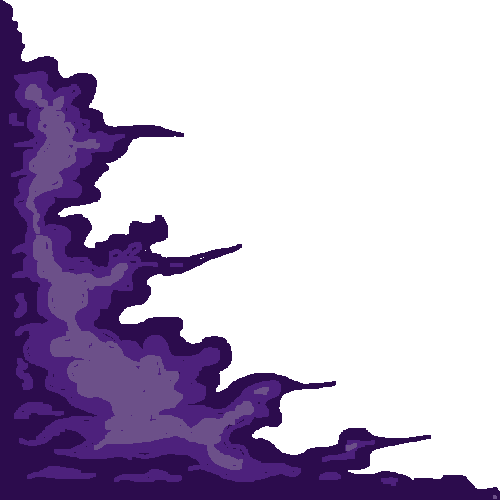
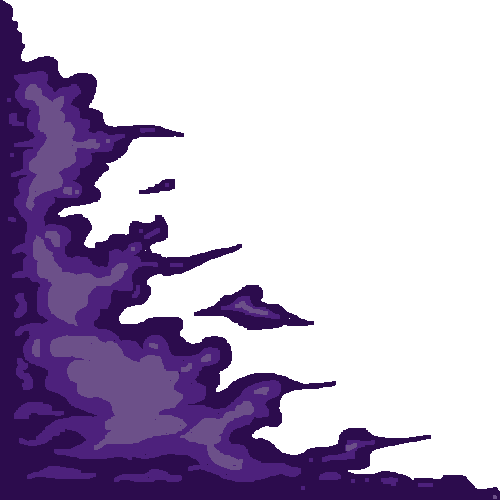
Modif ghost ligne 266, Monde sans limites

diff --git a/game/Kusinta/game/underworld/Ghost.java b/game/Kusinta/game/underworld/Ghost.java
@@ -223,20 +223,23 @@ public class Ghost extends Entity {
 		if (cat == Category.O) {
 			isFollowing = false;
 			if (dir == Direction.F) {
-				if (m_direction == Direction.N) {
+				switch (m_direction.toString()) {
+				case Direction.Ns:
 //					block = getBlockCoord(m_coord.X(), m_coord.Y() - SIZE);
 					return m_model.m_underworld.isBlocked(m_coord.X(), m_coord.Y());
-				} else if (m_direction == Direction.S) {
+				case Direction.Ss:
 //					block = getBlockCoord(m_coord.X(), m_coord.Y() + SIZE);
 					return m_model.m_underworld.isBlocked(m_coord.X(), m_coord.Y() + m_size);
-				} else if (m_direction == Direction.W) {
+				case Direction.Ws:
 //					block = getBlockCoord(m_coord.X() - SIZE, m_coord.Y());
 					return m_model.m_underworld.isBlocked(m_coord.X(), m_coord.Y());
-				} else if (m_direction == Direction.E) {
+				case Direction.Es:
 //					block = getBlockCoord(m_coord.X() + SIZE, m_coord.Y());
 					return m_model.m_underworld.isBlocked(m_coord.X() + m_size, m_coord.Y());
+				default:
+					return false;
 				}
-				return false;
+
 			}
 		} else if (cat == Category.A) {
 			coord = getPlayer().getCoord();
@@ -260,47 +263,47 @@ public class Ghost extends Entity {
 				return false;
 		}
 		// Modifier egalités de coord pour garder une distance
-		switch (dir.toString()) {
-		case Direction.Ns:
-			block = getBlockCoord(m_coord.X(), m_coord.Y() - m_size);
-			playerBlock = getBlockCoord(coord.X(), coord.Y());
-			return block.isEqual(playerBlock) && Math.abs(coord.Y() - m_coord.Y()) <= 50;
-		case Direction.Ss:
-			block = getBlockCoord(m_coord.X(), m_coord.Y() + m_size);
-			playerBlock = getBlockCoord(coord.X(), coord.Y());
-			return block.isEqual(playerBlock) && Math.abs(coord.Y() - m_coord.Y()) <= 50;
-		case Direction.Es:
-			block = getBlockCoord(m_coord.X() + m_size, m_coord.Y());
-			playerBlock = getBlockCoord(coord.X(), coord.Y());
-			return block.isEqual(playerBlock) && Math.abs(coord.X() - m_coord.X()) <= 50;
-		case Direction.Ws:
-			block = getBlockCoord(m_coord.X() - m_size, m_coord.Y());
-			playerBlock = getBlockCoord(coord.X(), coord.Y());
-			return block.isEqual(playerBlock) && Math.abs(coord.X() - m_coord.X()) <= 50;
-		case Direction.NEs:
-			block = getBlockCoord(m_coord.X() + m_size, m_coord.Y() - m_size);
-			playerBlock = getBlockCoord(coord.X(), coord.Y());
-			return block.isEqual(playerBlock) && Math.abs(coord.X() - m_coord.X()) <= 50
-					&& Math.abs(coord.Y() - m_coord.Y()) <= 50;
-		case Direction.NWs:
-			block = getBlockCoord(m_coord.X() - m_size, m_coord.Y() - m_size);
-			playerBlock = getBlockCoord(coord.X(), coord.Y());
-			return block.isEqual(playerBlock) && Math.abs(coord.X() - m_coord.X()) <= 50
-					&& Math.abs(coord.Y() - m_coord.Y()) <= 50;
-		case Direction.SEs:
-			block = getBlockCoord(m_coord.X() + m_size, m_coord.Y() + m_size);
-			playerBlock = getBlockCoord(coord.X(), coord.Y());
-			return block.isEqual(playerBlock) && Math.abs(coord.X() - m_coord.X()) <= 50
-					&& Math.abs(coord.Y() - m_coord.Y()) <= 50;
-		case Direction.SWs:
-			block = getBlockCoord(m_coord.X() - m_size, m_coord.Y() + m_size);
-			playerBlock = getBlockCoord(coord.X(), coord.Y());
-			return block.isEqual(playerBlock) && Math.abs(coord.X() - m_coord.X()) <= 50
-					&& Math.abs(coord.Y() - m_coord.Y()) <= 50;
-		case Direction.Hs:
-			return Math.abs(m_coord.X() - coord.X()) <= 5 && Math.abs(m_coord.Y() - coord.Y()) <= 5;
-		// return coord.isEqual(m_coord);
-		}
+//		switch (dir.toString()) {
+//		case Direction.Ns:
+//			block = getBlockCoord(m_coord.X(), m_coord.Y() - m_size);
+//			playerBlock = getBlockCoord(coord.X(), coord.Y());
+//			return block.isEqual(playerBlock) && Math.abs(coord.Y() - m_coord.Y()) <= 50;
+//		case Direction.Ss:
+//			block = getBlockCoord(m_coord.X(), m_coord.Y() + m_size);
+//			playerBlock = getBlockCoord(coord.X(), coord.Y());
+//			return block.isEqual(playerBlock) && Math.abs(coord.Y() - m_coord.Y()) <= 50;
+//		case Direction.Es:
+//			block = getBlockCoord(m_coord.X() + m_size, m_coord.Y());
+//			playerBlock = getBlockCoord(coord.X(), coord.Y());
+//			return block.isEqual(playerBlock) && Math.abs(coord.X() - m_coord.X()) <= 50;
+//		case Direction.Ws:
+//			block = getBlockCoord(m_coord.X() - m_size, m_coord.Y());
+//			playerBlock = getBlockCoord(coord.X(), coord.Y());
+//			return block.isEqual(playerBlock) && Math.abs(coord.X() - m_coord.X()) <= 50;
+//		case Direction.NEs:
+//			block = getBlockCoord(m_coord.X() + m_size, m_coord.Y() - m_size);
+//			playerBlock = getBlockCoord(coord.X(), coord.Y());
+//			return block.isEqual(playerBlock) && Math.abs(coord.X() - m_coord.X()) <= 50
+//					&& Math.abs(coord.Y() - m_coord.Y()) <= 50;
+//		case Direction.NWs:
+//			block = getBlockCoord(m_coord.X() - m_size, m_coord.Y() - m_size);
+//			playerBlock = getBlockCoord(coord.X(), coord.Y());
+//			return block.isEqual(playerBlock) && Math.abs(coord.X() - m_coord.X()) <= 50
+//					&& Math.abs(coord.Y() - m_coord.Y()) <= 50;
+//		case Direction.SEs:
+//			block = getBlockCoord(m_coord.X() + m_size, m_coord.Y() + m_size);
+//			playerBlock = getBlockCoord(coord.X(), coord.Y());
+//			return block.isEqual(playerBlock) && Math.abs(coord.X() - m_coord.X()) <= 50
+//					&& Math.abs(coord.Y() - m_coord.Y()) <= 50;
+//		case Direction.SWs:
+//			block = getBlockCoord(m_coord.X() - m_size, m_coord.Y() + m_size);
+//			playerBlock = getBlockCoord(coord.X(), coord.Y());
+//			return block.isEqual(playerBlock) && Math.abs(coord.X() - m_coord.X()) <= 50
+//					&& Math.abs(coord.Y() - m_coord.Y()) <= 50;
+//		case Direction.Hs:
+//			return Math.abs(m_coord.X() - coord.X()) <= 5 && Math.abs(m_coord.Y() - coord.Y()) <= 5;
+//		// return coord.isEqual(m_coord);
+//		}
 		return false;
 	}
 

diff --git a/game/Kusinta/game/underworld/PlayerSoul.java b/game/Kusinta/game/underworld/PlayerSoul.java
@@ -29,6 +29,7 @@ public class PlayerSoul extends Character {
 	long m_dashTimer;
 	long m_lureTimer;
 
+	int nbLure = 0;
 	int fragmentsPicked = 0;
 	boolean leftOrientation;
 
@@ -43,7 +44,7 @@ public class PlayerSoul extends Character {
 	int animationMode;
 	int m_lifePaint, m_dashPaint, m_lurePaint;
 
-	boolean hidden, escape, escapedOrDead;
+	boolean hidden, escape, escapedOrDead, invicible, outScreen;
 	boolean dashAvailable, lureAvailable, moveAvailable;
 	Lure lure;
 
@@ -52,10 +53,12 @@ public class PlayerSoul extends Character {
 		m_width = SIZE;
 		m_height = SIZE;
 		m_dashTimer = 0;
+		outScreen = false;
 		leftOrientation = false;
 		dashAvailable = true;
 		lureAvailable = true;
 		moveAvailable = true;
+		invicible = true;
 		hidden = false;
 		escape = false;
 		escapedOrDead = false;
@@ -69,16 +72,21 @@ public class PlayerSoul extends Character {
 	}
 	
 	public boolean lureActive(){
-		return m_projectiles.size() > 0;
+		return nbLure > 0;
 	}
 
 	@Override
 	public boolean closest(Category cat, Direction dir) {
-		int xCenter = m_coord.X() + (m_width / 2);
-		int yCenter = m_coord.Y() + (m_height / 2);
 		if ((escape) && (cat == Category.G)) {
 			return m_model.m_underworld.m_gate.contains(hitBox);
 		}
+		if (cat == Category.C) {
+			int x = m_coord.X();
+			int y = m_coord.Y();
+			return ((x + m_width < 0) || (y + m_height < 0) || (x > Underworld.BORDERX) || (y > Underworld.BORDERY));
+		}
+		int xCenter = m_coord.X() + (m_width / 2);
+		int yCenter = m_coord.Y() + (m_height / 2);
 		if (cat == Category.O) {
 			for (int i = 0; i < m_model.m_underworld.m_clouds.length; i++) {
 				if ((m_model.m_underworld.m_clouds[i].contains(xCenter, yCenter))) {
@@ -212,12 +220,28 @@ public class PlayerSoul extends Character {
 	}
 
 	@Override
-	public boolean wizz(Direction dir) {
+	public boolean hit(Direction dir) {
 		fragmentsPicked = -1;
 		escape = true;
 		m_model.m_underworld.activateGate();
 		animationMode = ESCAPE;
 		m_image_index = UnderworldParam.sizePlayerDashAnimation;
+		return true;
+	}
+	
+	@Override
+	public boolean wizz(Direction dir) {
+		int x = m_coord.X();
+		int y = m_coord.Y();
+		if (x < 0) {
+			m_coord.setX(Underworld.BORDERX);
+		} else if (y < 0) {
+			m_coord.setY(Underworld.BORDERY);
+		} else if (x > Underworld.BORDERX) {
+			m_coord.setX(0 - m_width);
+		} else {
+			m_coord.setY(0 - m_height);
+		}
 		return true;
 	}
 
@@ -257,13 +281,14 @@ public class PlayerSoul extends Character {
 
 	@Override
 	public boolean egg(Direction dir) {
- 	  if ((lureAvailable) && (m_projectiles.size() < MAX_LURE)) {
+ 	  if ((lureAvailable) && (nbLure < MAX_LURE)) {
 			try {
 				int x = m_model.m_mouseCoord.X() - Lure.SIZE / 2;
 				int y = m_model.m_mouseCoord.Y() - Lure.SIZE / 2;
 				if (m_model.m_underworld.checkPosition(x, y, 0, Lure.SIZE))
 					return false;
 				addProjectile(Projectile.proj.LURE, new Coord(x, y), 0, this, m_direction);
+				nbLure++;
 				lureAvailable = false;
 				m_lureGenerationElapsed = 0;
 				return true;
@@ -274,20 +299,27 @@ public class PlayerSoul extends Character {
 		}
 		return false;
 	}
+	
+	@Override
+	public void removeProjectile(Projectile projectile) {
+		super.removeProjectile(projectile);
+		nbLure--;
+	}
 
 	public void setVisibility(boolean bool) {
 		hidden = bool;
 	}
 
 	public void getDamage() {
-		loseLife(20);
+		if (!invicible)
+			loseLife(20);
 	}
 
 	public static final int HEALTHHEIGHT = SIZE / 8;
 
 	public void paint(Graphics g) {
-		if (m_projectiles.size() > 0) {
-			for (int i = 0; i < m_projectiles.size(); i++) {
+		if (nbLure > 0) {
+			for (int i = 0; i < nbLure; i++) {
 				m_projectiles.get(i).paint(g);
 			}
 		}
@@ -348,6 +380,8 @@ public class PlayerSoul extends Character {
 					} else {
 						animationMode = NORMAL;
 						m_image_index = 0;
+						if (invicible)
+							invicible = false;
 					}
 					DISTANCE = NORMALSPEED;
 				}
@@ -371,8 +405,8 @@ public class PlayerSoul extends Character {
 			lureAvailable = true;
 			m_lureGenerationElapsed = 0;
 		}
-		if (m_projectiles.size() > 0) {
-			for (int i = 0; i < m_projectiles.size(); i++) {
+		if (nbLure > 0) {
+			for (int i = 0; i < nbLure; i++) {
 				m_projectiles.get(i).tick(elapsed);
 			}
 		}

diff --git a/game/Kusinta/game/underworld/Underworld.java b/game/Kusinta/game/underworld/Underworld.java
@@ -9,7 +9,6 @@ import java.io.File;
 import java.io.FileReader;
 import java.util.Iterator;
 import java.util.LinkedList;
-import javax.imageio.ImageIO;
 
 import automaton.Automaton;
 import automaton.AutomatonLibrary;
@@ -120,7 +119,10 @@ public class Underworld {
 			e.printStackTrace();
 		}
 	}
-
+	
+	public static final int BORDERXLEFT = 2494;
+	public static final int BORDERYLEFT = 2494;
+	
 	public static final int BORDERX = 2580;
 	public static final int BORDERY = 2580;
 
@@ -279,6 +281,8 @@ public class Underworld {
 	}
 
 	public boolean isBlocked(int x, int y) {
+		if ((x < 0) || (y < 0) || (x > BORDERXLEFT) || (y > BORDERYLEFT))
+				return false;
 		int n = (x / Element.SIZE) + (y / Element.SIZE * nbCol);
 		if (n >= 0 && n < nbRow * nbCol) {
 			return m_elements[n].isSolid();
